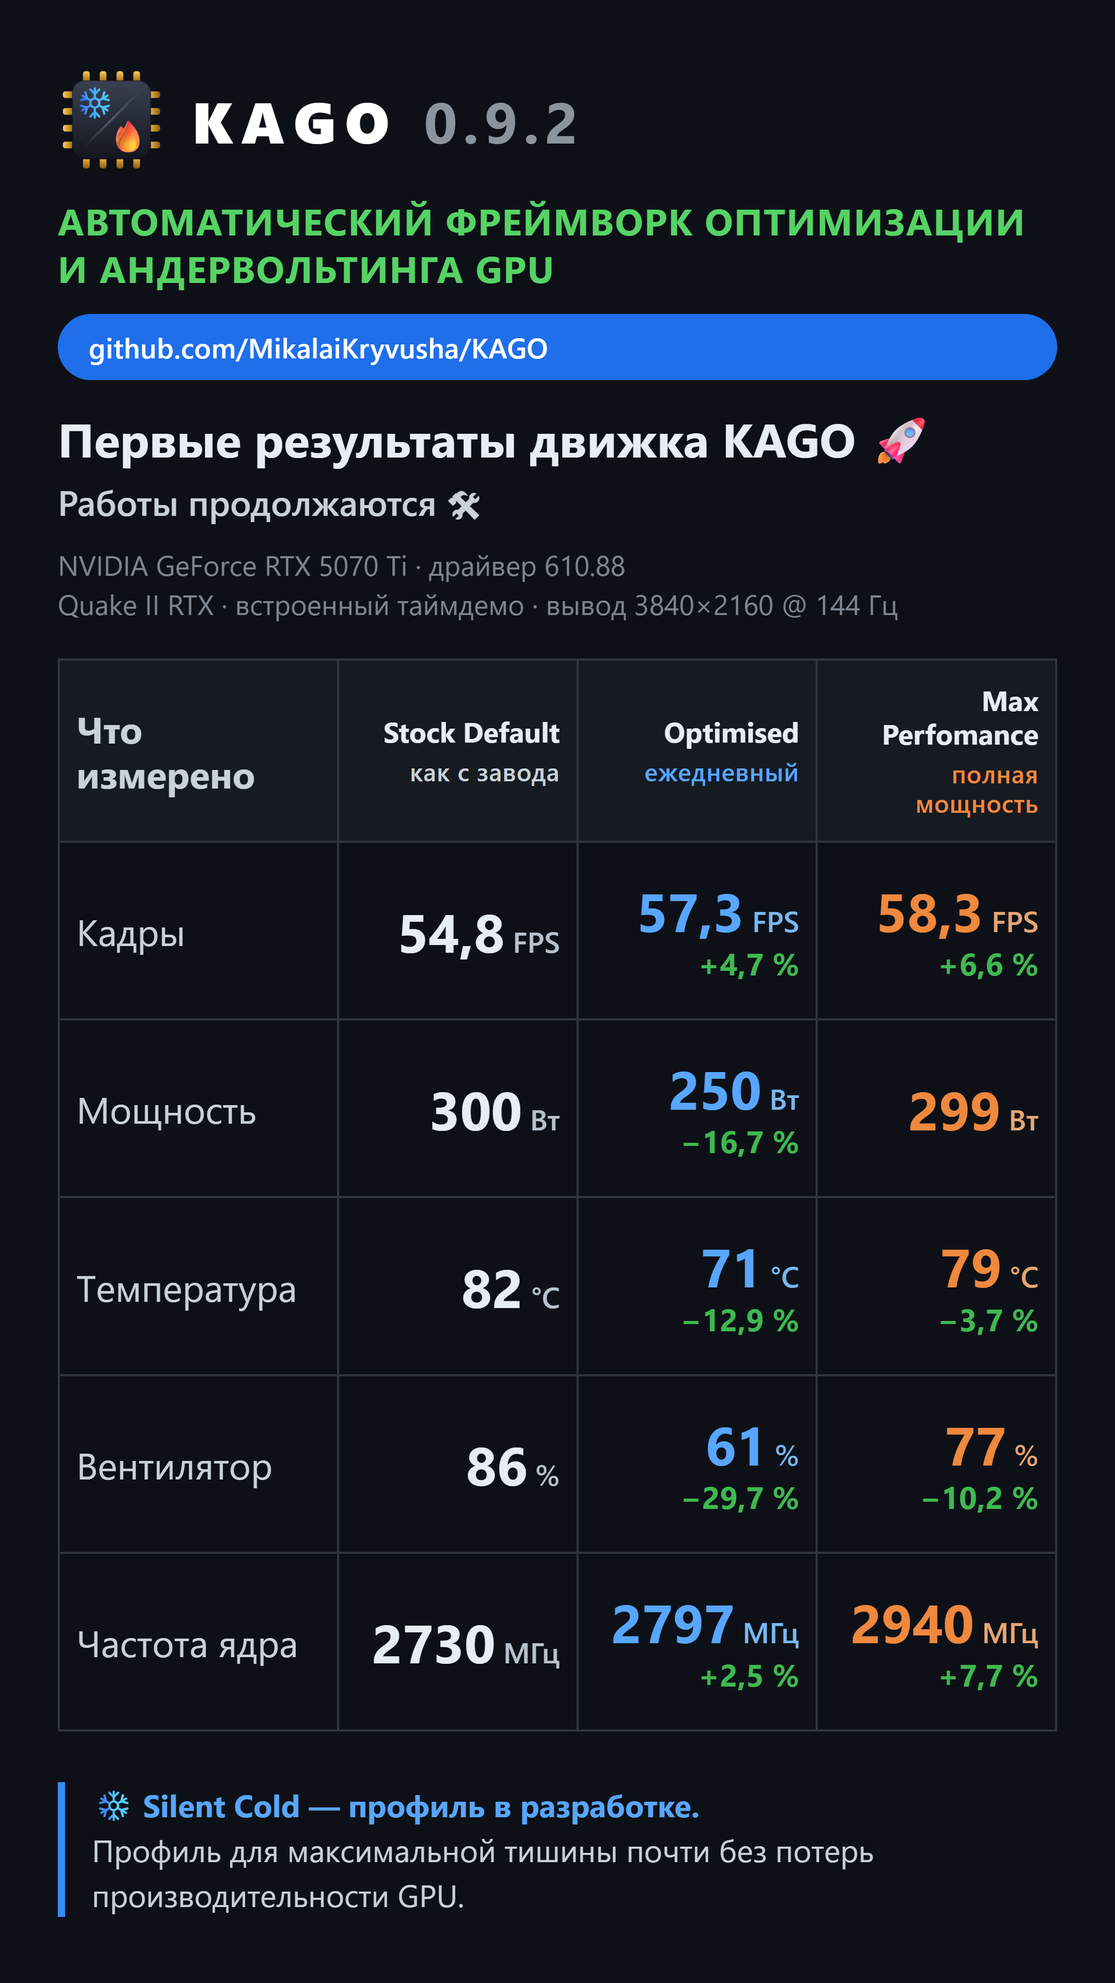
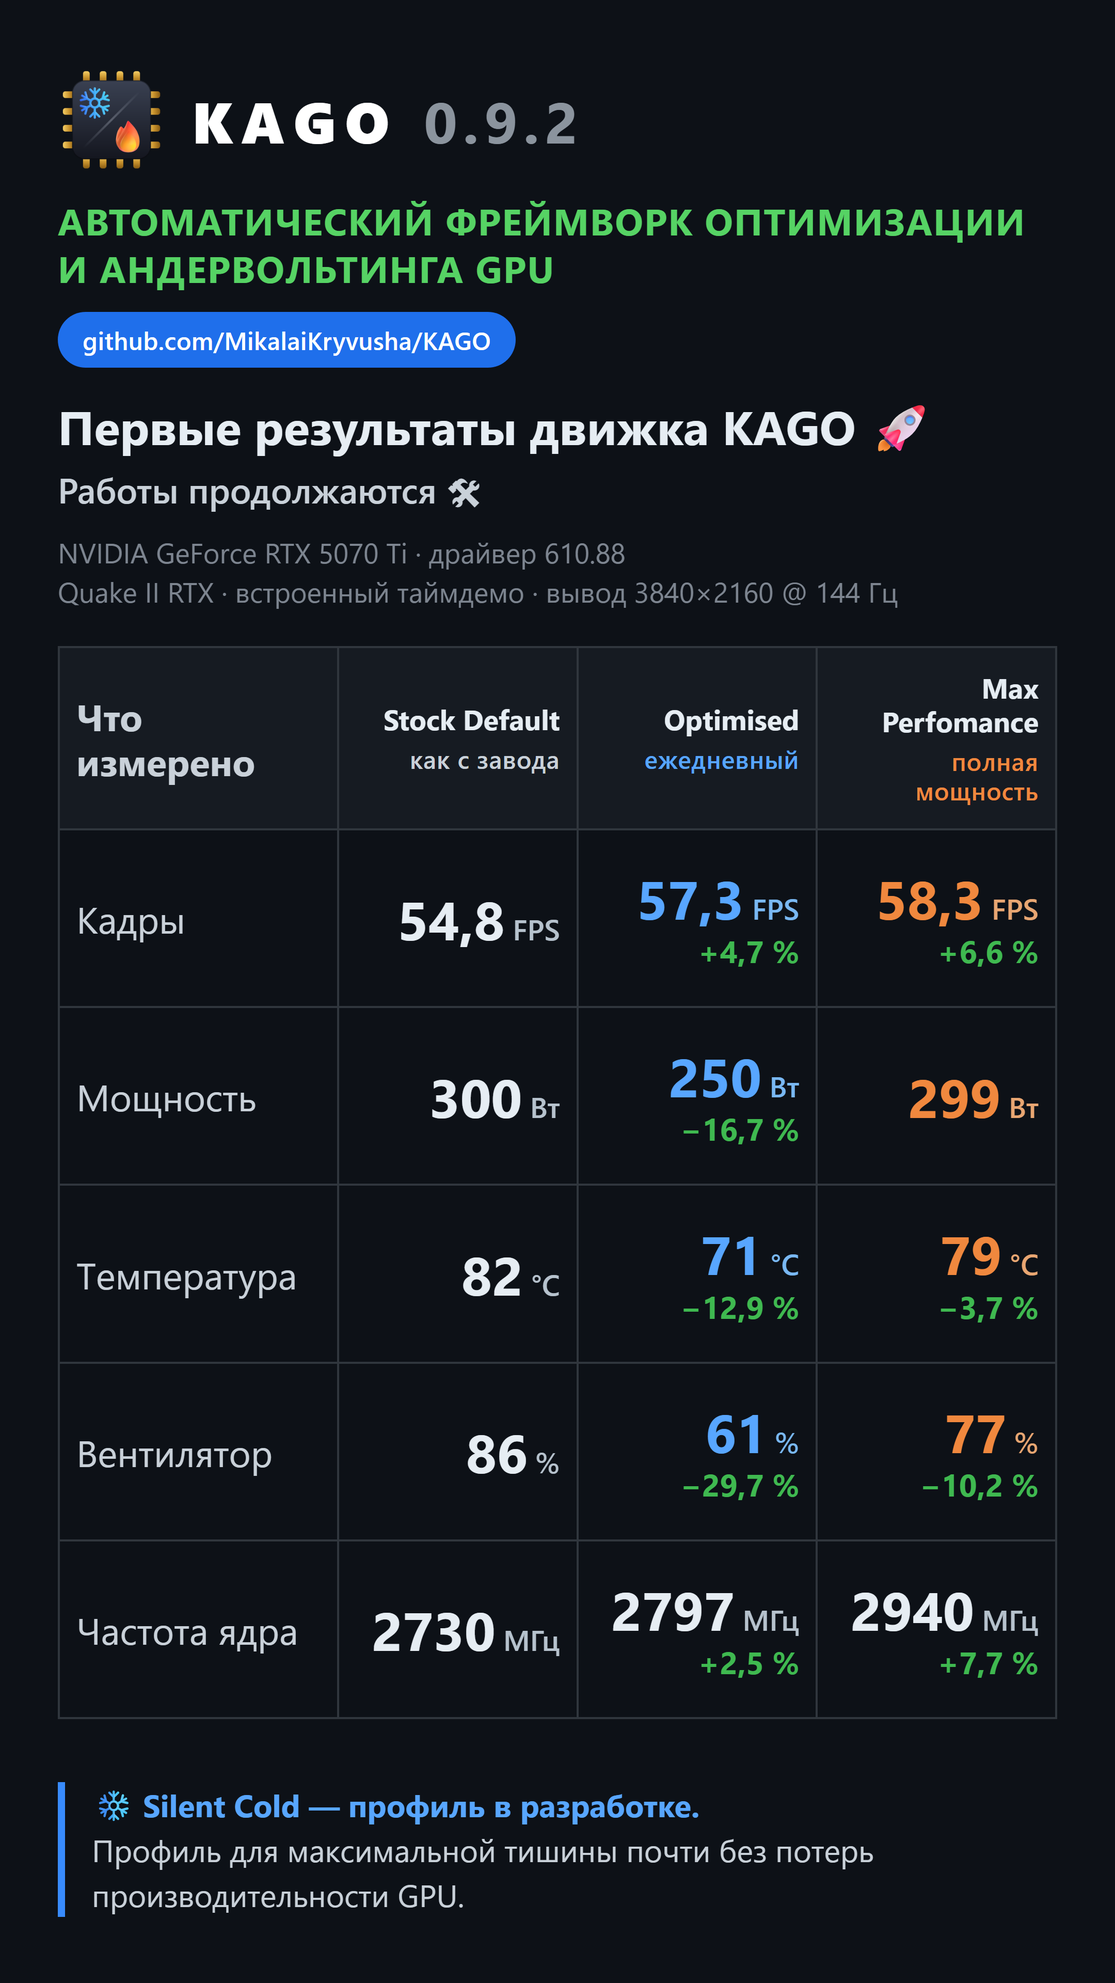
release: 0.9.2 — канон, план 83 и карточка в финальной редакции
· GOAL: слово владельца про потолок Silent Cold по оборотам 40…50 % и его же правка про Optimised
  («всё по-старым требованиям, без лимита частоты»);
· STATUS: факт 38 — форма -lgc как диапазон ИЗМЕРЕНА · край критерия Optimised закрыт замером ·
  числа батареи перемерены командой (45 наборов, 0 красных, 2417 блоков);
· plans/83: Ш5 закрыт замером чередованием, Ш6 честно перенесён в эстафету;
· карточка: пилюля по ширине ссылки, строка частоты не красится (слово владельца).

⚠ Тег v0.9.2 стоит на предыдущем коммите: эти две косметические правки карточки и записи канона
легли ПОСЛЕ него, а переставить тег запретила политика прав (удаление тегов в deny — правильный
сторож). Отгружаемое поведение на теге полное; README на витрине рендерится из ветки, поэтому
посетитель видит финальную картинку.

diff --git a/assets/comparison-9x16.html b/assets/comparison-9x16.html
@@ -16,8 +16,11 @@
   .brand .name { font-size: 56px; letter-spacing: .16em; color: #ffffff; font-weight: 800; line-height: 1 }
   .brand .name span { color: #8b949e; font-weight: 700; letter-spacing: .1em }
   /* Синяя пилюля со ссылкой на репозиторий — слово владельца 2026-09-01. */
-  .pill { display: inline-block; margin-top: 22px; background: #1f6feb; color: #ffffff;
-          font-size: 27px; font-weight: 600; padding: 14px 30px; border-radius: 999px;
+  /* Пилюля по ШИРИНЕ ССЫЛКИ, а не во всю строку: в колонке flex дочерний элемент растягивается по
+     умолчанию, поэтому здесь нужен align-self, а не inline-block (первая редакция дала полосу
+     во всю ширину кадра). */
+  .pill { align-self: flex-start; margin-top: 20px; background: #1f6feb; color: #ffffff;
+          font-size: 24px; font-weight: 600; padding: 11px 24px; border-radius: 999px;
           letter-spacing: .01em; white-space: nowrap }
   /* Строка-описание проекта — слово владельца 2026-09-01. Кегль подобран так, чтобы она встала в
      ДВЕ строки и не рвалась посередине слова: капитель на 1080 точек шириной иначе не читается. */
@@ -98,7 +101,7 @@
       </tr>
       <tr>
         <td class="what">Частота ядра</td>
-        <td class="num stock">2730<span class="u"> МГц</span></td><td class="num opt">2797<span class="u"> МГц</span><span class="d good">+2,5 %</span></td><td class="num mp">2940<span class="u"> МГц</span><span class="d good">+7,7 %</span></td>
+        <td class="num plain">2730<span class="u"> МГц</span></td><td class="num plain">2797<span class="u"> МГц</span><span class="d good">+2,5 %</span></td><td class="num plain">2940<span class="u"> МГц</span><span class="d good">+7,7 %</span></td>
       </tr>
   </table>
 

diff --git a/plans/83_never_above_the_cards_own_maximum_becomes_continuous.md b/plans/83_never_above_the_cards_own_maximum_becomes_continuous.md
@@ -104,11 +104,28 @@ flowchart TD
       **180…1500** → прожиг `sdc_fma --sustain 25` → **58 проб под нагрузкой: 1492…1500 МГц, НИ ОДНОЙ
       выше границы, при этом за окно карта спускалась до 180 МГц.** Без границы тот же прожиг сидит на
       ~2887 МГц. Рабочий режим владельца возвращён, запомненное состояние проверено чтением.
-- [ ] **Ш5. Замер цены (P83-AC5).** `npm run gfx -- --capture` до и после, чередованием, и разброс
-      прибора рядом. **Пока этот замер не сделан, «замок бесплатен» произносить нельзя** — правило
-      проекта про утверждения о разнице.
+- [x] **Ш5. ЗАМЕР СДЕЛАН 2026-09-01 11:0x, ЧЕРЕДОВАНИЕМ, И ОН ЗАКРЫЛ СРАЗУ ДВА ДОЛГА.** Ворота
+      прибора взяты первыми: **+48,37 %** при пороге 5 %. Четыре замера `mp → opt → mp → opt`
+      (`runs/graphics/mp83_a · opt83_a · mp83_b · opt83_b`):
+
+      | | Max Performance | Optimised |
+      |---|---|---|
+      | FPS, медиана двух | **58,348** | **57,349** |
+      | разброс МЕЖДУ запусками | **2,28 %** | 0,94 % |
+      | ватты · °C · вентилятор | 299,1 · 78,5 · 77,5 % | **250,0 · 71 · 60,5 %** |
+      | частота под нагрузкой | 2932…2947 | 2797 |
+
+      **(а) Последний край приёмки `Optimised` ЗАКРЫТ, и закрыт против правильной опоры.** Разница
+      −1,71 % ТОНЬШЕ разброса прибора (2,28 %) — то есть просадку измерить нельзя, а её верхняя
+      граница вдвое меньше бюджета владельца в 5 %. Это третий пункт эстафеты, переносившийся трижды.
+      **(б) Цена замка: НЕ ИЗОЛИРОВАНА, и это сказано честно.** Прибор принял к сравнению записи
+      31.08 (без замка): 57,35 против 55,49 FPS, то есть **+3,35 % при объединённом разбросе 4,40 %**.
+      Направление плюсовое, разница тоньше разброса, и приписать её замку нельзя: вместе с ним
+      изменились опора худшего случая и подрезка по конверту. **Что доказано: сегодняшние правки
+      кадров НЕ отняли.** Что не доказано: вклад именно замка.
 - [ ] **Ш6. Проба после остывания (P83-AC6)** — та самая, что нашла дефект: через ≥15 мин прочитать
-      таблицу и посчитать превышение над максимумом.
+      таблицу и посчитать превышение над максимумом. **В эстафету:** сессия закрыта раньше по слову
+      владельца.
 - [x] **Ш7. Канон записан.** R13 в карте архитектуры получил вторую половину (держатель, а не только
       судья) вместе с разбором того, как первая редакция подрезки его обезоружила · `GOAL.md` — слово
       владельца дословно, отдельным разделом, с пометкой `[AI]` на моём комментарии · `STATUS.md` —

diff --git a/STATUS.md b/STATUS.md
@@ -455,8 +455,21 @@
   вектор напряжений у всех режимов ОДИН, различает их **лимит мощности** — 300 · 250 · 250 Вт, — а
   потолок частоты остался только у `Silent Cold` (~2800 МГц). Прежняя формулировка «различает только
   МЕСТО потолка частоты» ОТМЕНЕНА. Фиксации частоты нет ни в одном режиме.
+- 🆕 **ПОТОЛОК `SILENT COLD` СТАЛ ВЫВОДИМОЙ ВЕЛИЧИНОЙ — слово владельца 2026-09-01:** *«для silent
+  cold режима нужно будет max частоту так подобрать, чтобы вертушки работали в районе 40...50% -
+  больше не очень хорошо»*. То есть потолок больше не «условных 2800», а ТОТ, при котором обороты
+  садятся в 40…50 % на ПЛАТО (транзиент занижает обороты на 10–18 пунктов, факт 35). Подбирается
+  тепловой лестницей поверх тюнинг-кривой; прежний замер лестницы дал 40 % на потолке 2100 МГц, но он
+  снят БЕЗ андервольта, значит под 40…50 % влезет потолок ВЫШЕ. Полностью — `GOAL.md` → «🔊 ПОТОЛОК
+  SILENT COLD ПОДБИРАЕТСЯ ПО ОБОРОТАМ».
+  ⚠ **И там же его правка, снимающая мою ошибку прочтения: у `OPTIMISED` требования ПРЕЖНИЕ, лимита
+  частоты НЕТ** (*«для оптимайзд - всё по-старым требования, без лимита частоты»*). Первое сообщение
+  он назвал случайным — оно относилось к `Silent Cold`.
 - **OPTIMISED НАЗВАН ДО КОНЦА: FPS ≥ 95 % от Max Perfomance**, а покупаем на это СИЛЬНОЕ снижение
-  ватт, температуры и шума. Точка отсчёта — **Max Perfomance, а не сток**. Ручек три: **кривая V/F —
+  ватт, температуры и шума. Точка отсчёта — **Max Perfomance, а не сток**.
+  ✅ **КРАЙ ЭТОГО КРИТЕРИЯ ЗАКРЫТ ЗАМЕРОМ 2026-09-01** (чередование из четырёх замеров): просадка
+  −1,71 % ТОНЬШЕ разброса прибора 2,28 %, то есть её нельзя измерить, а верхняя граница вдвое меньше
+  бюджета. Купленное: −49,1 Вт · −7,5 °C · −17 пунктов оборотов. Числа — в `profiles/optimised.json`. Ручек три: **кривая V/F —
   главный рычаг и обязателен во ВСЕХ режимах** · **`-pl 250` ставится** · потолок частоты решается
   ЗАМЕРОМ размена. Следствие для кода: откат обязан снимать обе части (кривая — NVAPI, ватты —
   `nvidia-smi`). Граница рычага: `-pl` двигается только 300 → 250 Вт.

diff --git a/GOAL.md b/GOAL.md
@@ -715,6 +715,39 @@ Furnace` уже нет.
 
 ---
 
+## 🔊 ПОТОЛОК SILENT COLD ПОДБИРАЕТСЯ ПО ОБОРОТАМ — слово владельца (2026-09-01 ~11:0x +03:00)
+
+Дословно, в чате, во время замера — после того, как он увидел в моём же выводе 63 % оборотов:
+
+> *«для silent cold режима нужно будет max частоту так подобрать, чтобы вертушки работали в районе
+> 40...50% - больше не очень хорошо»*
+
+И тут же — уточнение, отменяющее первую редакцию этой же мысли (он сперва назвал `Optimised`
+случайно):
+
+> *«про оптимайзд - забудь, я с случайно, я имел в виду тихий л=лолодный»* ·
+> *«для оптимайзд - всё по-старым требования, без лимита частоты»*
+
+> [AI] **Что это значит по пунктам, чтобы следующая сессия не выводила заново.**
+>
+> | режим | потолок частоты | критерий оборотов |
+> |---|---|---|
+> | ⚖ **Optimised** | **НЕТ** (кроме железного максимума карты) — прежние требования в силе | прежний: «желательно не выше 60 %» (факт 29) |
+> | ❄ **Silent Cold** | **ПОДБИРАЕТСЯ ЗАМЕРОМ** — тот, при котором обороты садятся в 40…50 % | **40…50 %, целевой** |
+>
+> **Это делает потолок `Silent Cold` ВЫВОДИМОЙ величиной, а не назначенной.** Прежде он стоял
+> «условных 2800 МГц» его же словом; теперь у него есть измеримый критерий, и подбирается он тепловой
+> лестницей (`npm run thermal`), которая как раз даёт «потолок → равновесная T → обороты → Вт → FPS».
+> Прежний замер той лестницы (факт 34+36, СТОКОВАЯ кривая) дал 40 % оборотов на потолке 2100 МГц; но
+> он снят БЕЗ андервольта, а под тюнинг-кривой та же частота стоит дешевле по ваттам — значит под
+> 40…50 % влезет потолок ВЫШЕ 2100, и перепрогон лестницы поверх кривой обязателен.
+>
+> ⚠ **И ещё одно следствие, названное сразу:** обороты — это ПЛАТО, а не транзиент (факт 35:
+> транзиент занижает обороты на 10–18 пунктов). Пара «обороты ↔ потолок» без обнаруженного плато не
+> считается. [/AI]
+
+---
+
 ## 🔒 «НИКОГДА ВЫШЕ 3090» СТАНОВИТСЯ НЕПРЕРЫВНЫМ — слово владельца (2026-09-01 10:07:37 +03:00)
 
 Дословно, `interviews/025`, ответ на развилку о том, чем держать границу (Q1 = **A** · Q2 = **A**):
